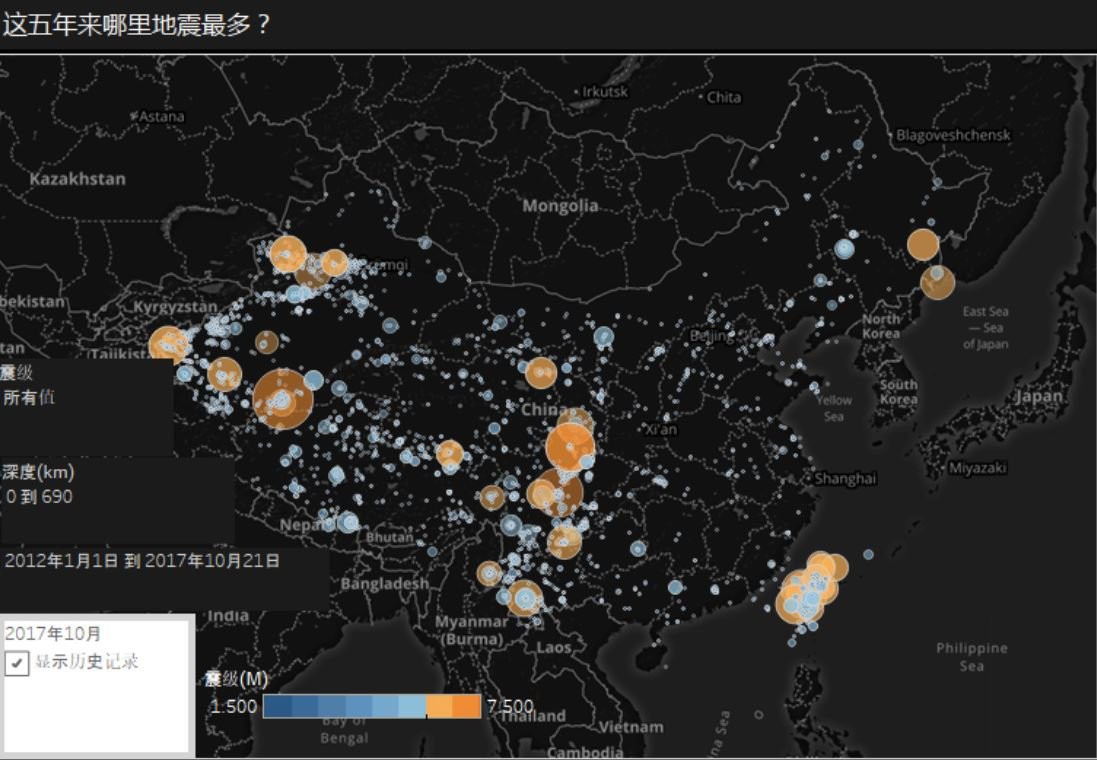
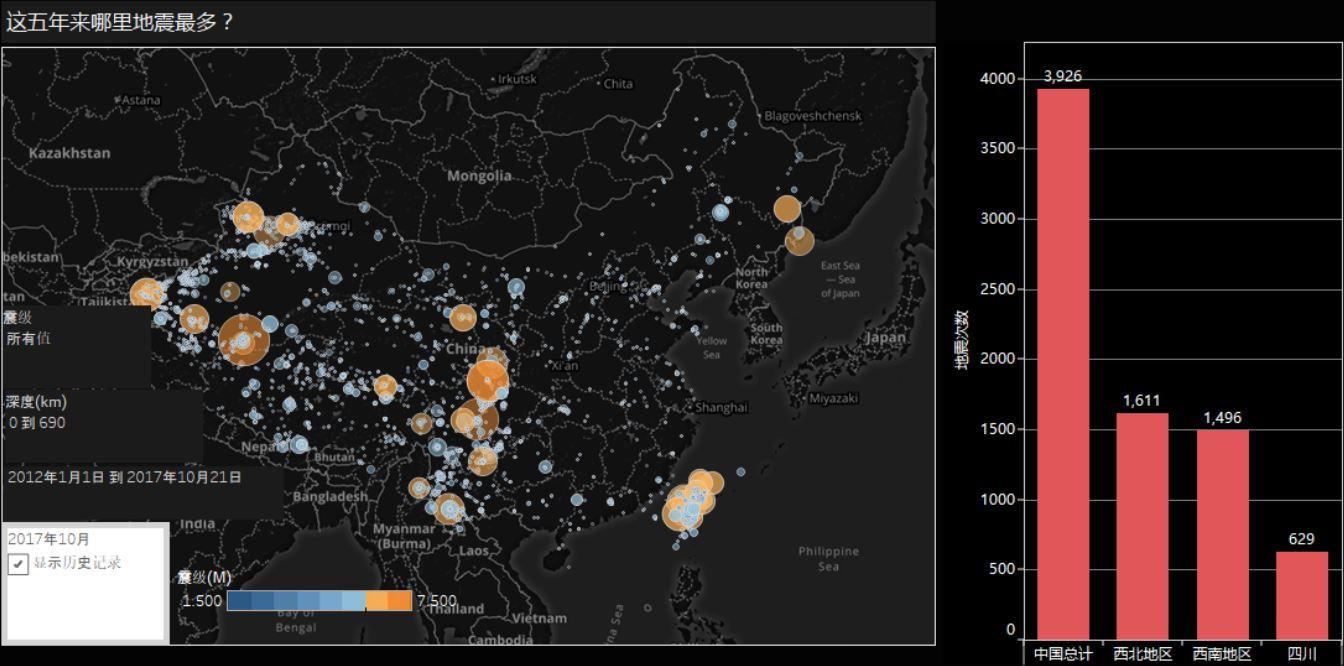
可视化

diff --git a/infovis/index.md b/infovis/index.md
@@ -32,27 +32,18 @@ sitemap:
 ## 期中项目——中国地震数据可视化 
 
 ### 近五年来中国的地震都发生在哪里？
+<span class="image center"><img src="{{ "/images/dz1.JPG" | absolute_url }}" width = "600" height = "500" alt="" /></span> 
 <div class="box">
   <p>
-  &nbsp;&nbsp;&nbsp;&nbsp;中国是一个地震频发的国家。近五年来中国共发生了3926次地震，期中，地震发生所集中的地方为西北地区，西南地区，及四川地区。
-  <span class="image center"><img src="{{ "/images/dz1.JPG" | absolute_url }}" width = "600" height = "400" alt="" /></span> 
-  </p>
-</div>
-
-
-### 地震最多的前三个城市
-<div class="box">
-  <p>
-地震发生次数频率最高的为西北地区，为1611次。排第二的为西南地区，为1496次。而紧追第三的则是四川，为629次。
-<span class="image center"><img src="{{ "/images/dz2.JPG" | absolute_url }}" width = "250" height = "400"  alt="" /></span>
+&nbsp;&nbsp;&nbsp;&nbsp;中国是一个地震频发的国家。近五年来中国共发生了3926次地震，期中，地震发生所集中的地方为西北地区，西南地区，及四川地区。地震发生次数频率最高的为西北地区，为1611次。排第二的为西南地区，为1496次。而紧追第三的则是四川，为629次。
   </p>
 </div>
 
 ### 震级与震源深度的关系
+<span class="image center"><img src="{{ "/images/dz3.JPG" | absolute_url }}" width = "650" height = "500" alt="" /></span>
 <div class="box">
   <p>
 震源与震级最具有相关性的集中在3.0级地震至5.0级地震之间。
-<span class="image center"><img src="{{ "/images/dz3.JPG" | absolute_url }}" width = "650" height = "380" alt="" /></span>
   </p>
 </div>
 
